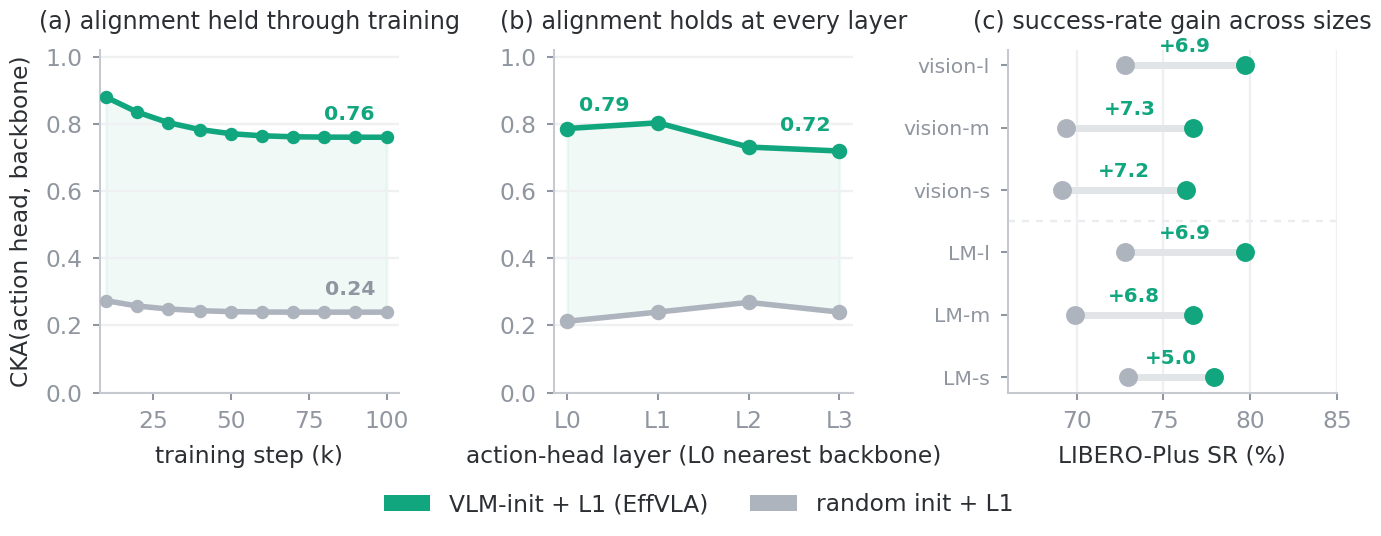
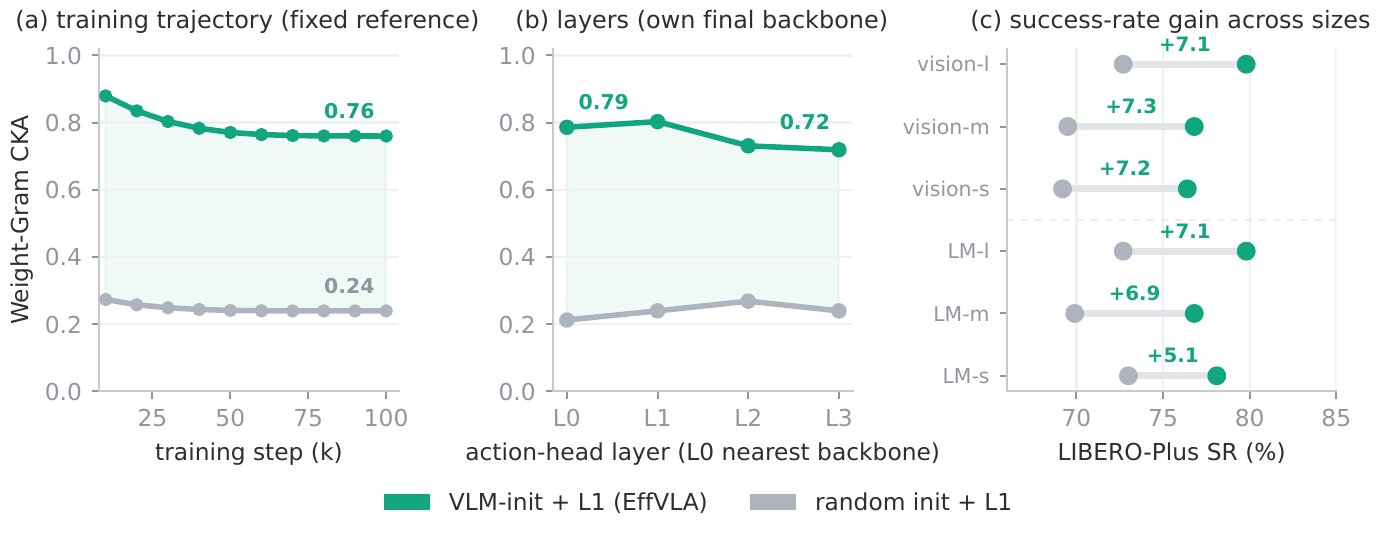
更新readme

diff --git a/README.md b/README.md
@@ -8,11 +8,11 @@ Luoyang Sun<sup>1,2,3,4</sup>, Guoyang Xia<sup>5,4</sup>, Fengfa Li<sup>4</sup>,
 
 <br>
 
-[![arXiv](https://img.shields.io/badge/arXiv-coming_soon-b31b1b?logo=arxiv&logoColor=white)](#) &nbsp;[![Paper](https://img.shields.io/badge/Paper-coming_soon-4b5563)](#) &nbsp;[![Project Page](https://img.shields.io/badge/Project_Page-Website-0B5D43)](https://mindvla-team.github.io/EFFVLA/) &nbsp;[![Code](https://img.shields.io/badge/Code-GitHub-181717?logo=github&logoColor=white)](https://github.com/MindVLA-Team/EFFVLA)
+[![arXiv](https://img.shields.io/badge/arXiv-2609.13984-b31b1b?logo=arxiv&logoColor=white)](https://arxiv.org/abs/2609.13984) &nbsp;[![Project Page](https://img.shields.io/badge/Project_Page-Website-0B5D43)](https://mindvla-team.github.io/EFFVLA/) &nbsp;[![Code](https://img.shields.io/badge/Code-GitHub-181717?logo=github&logoColor=white)](https://github.com/MindVLA-Team/EFFVLA)
 
 </div>
 
-> **What decides a modular VLA's action head is not its decoder, loss, or inference budget, but how it is initialized.** Copying the backbone's last transformer layers into the head is the largest lever we measure; _representation alignment_ is the account we offer for why it works.
+> **What decides a modular VLA's action head is not its decoder, loss, or inference budget, but how it is initialized.** Copying the backbone's last transformer layers into the head is the largest lever we measure; _backbone-head compatibility_ is the account we offer for why it works.
 > This repository releases the action-head modeling code — two models, **`EffVLA`** and **`Pi0`** — as drop-in modules for the [starVLA](https://github.com/MindVLA-Team) framework.
 
 <p align="center">
@@ -27,19 +27,19 @@ Holding the vision encoder, language backbone, data, and benchmark fixed, and va
 | | Finding | Result |
 |:--:|:--|:--:|
 | **1** | **Align the head, then keep it simple.** VLM-initializing the head is the largest lever, at no latency cost; once aligned, flow matching and extra passes stop paying. | **+7.1** pts |
-| **2** | **Capacity pays only after alignment.** The aligned action head is the highest-return module to scale — far above the vision encoder or language backbone. | **~4** pts / ms |
+| **2** | **Initialization amplifies the return to capacity.** The initialized action head is the highest-return module to scale — far above the vision encoder or language backbone. | **~4** pts / ms |
 | **3** | **Stop at a modest size.** Returns saturate early, near the budget today's π-series VLAs already use. | **~3.75B** |
 
 ![](https://img.shields.io/badge/02-0B5D43?style=flat-square) &nbsp;**WHY&nbsp;IT&nbsp;WORKS**
-## The alignment mechanism
+## Evidence for backbone-head compatibility
 
-Alignment is directly measurable, and it is what the initialized head retains. It holds a linear CKA of **0.76** with the backbone throughout fine-tuning while a random head never rises above **0.24**, at every layer, and the gap tracks the accuracy gain across all backbone sizes.
+VLM initialization leaves a clear signature in weight space. Weight-Gram CKA between the action head's projection weights and its backbone reference decreases from about **0.88 to 0.76** during fine-tuning, but remains far above the random-init control (about **0.27 to 0.24**). The separation is also visible across all four action-head layers. Across the tested vision and language sizes, VLM initialization improves LIBERO-Plus success by **+5.1 to +7.3** points.
 
 <p align="center">
-  <img src="static/images/cka.png" width="88%" alt="CKA between the action head and the backbone, held through training and across layers, and the success-rate gain across model sizes.">
+  <img src="static/images/cka.png" width="88%" alt="Weight-Gram CKA through training and across action-head layers, plus matched VLM-initialization success-rate gains across vision and language sizes.">
 </p>
 
-It also shows up in behaviour. Told to *"put the black bowl in the bottom drawer of the cabinet,"* the aligned head concentrates on the instruction and the named object; the random head is diffuse and leaves the instruction almost unattended (text mass **0.223** vs **0.030**). Across all 128 rollouts the aligned head attends ~**4×** more to the instruction, focusing on the nouns that name the task.
+It also shows up in attention behaviour. Told to *"put the black bowl in the bottom drawer of the cabinet,"* the initialized head assigns more total attention to the instruction and shows a more concentrated visual pattern, while the random head is diffuse and leaves the instruction almost unattended (text mass **0.223** vs **0.030**). The strongest text tokens include `assistant` and `put`; `assistant` may act as an attention sink, so we do not interpret the token ranking as human-like semantic focus. Across all 128 rollouts, the initialized head assigns about **4×** more attention mass to the instruction.
 
 <p align="center">
   <img src="static/images/attention_case.png" width="88%" alt="A single rollout: random init (left) vs VLM-init (right).">
@@ -47,12 +47,12 @@ It also shows up in behaviour. Told to *"put the black bowl in the bottom drawer
   <img src="static/images/attention_summary.png" width="88%" alt="Aggregate instruction attention over 128 rollouts, and the top instruction words by VLM-init attention.">
 </p>
 
-Because we reach that state only through initialization, we present representation alignment as the reading that best organizes these measurements rather than as a demonstrated cause; the paper names the control that would settle it.
+Together, weight-space CKA and attention are consistent with a backbone-head compatibility account. Weight-space CKA is not an activation-level representation measure and does not by itself demonstrate semantic grounding, so we present compatibility as an interpretation of the measurements rather than as an established cause.
 
 ![](https://img.shields.io/badge/03-0B5D43?style=flat-square) &nbsp;**THEN&nbsp;CAPACITY**
 ## Where to scale
 
-Capacity pays only after alignment: under the aligned head, scaling the action head turns capacity into accuracy while the vision encoder and language backbone saturate — and even the action head saturates past a modest size.
+Initialization strongly amplifies the return to action-head capacity: scaling the random-initialized transformer head still helps (**+3.1** points from small to large), but the same scaling after VLM initialization yields **+9.4** points. The vision encoder and language backbone saturate earlier, and even the action head saturates past a modest size.
 
 <p align="center">
   <img src="static/images/module_scaling.png" width="100%" alt="Success rate vs module parameter count for the language backbone, vision encoder, and action head under three substrates.">
